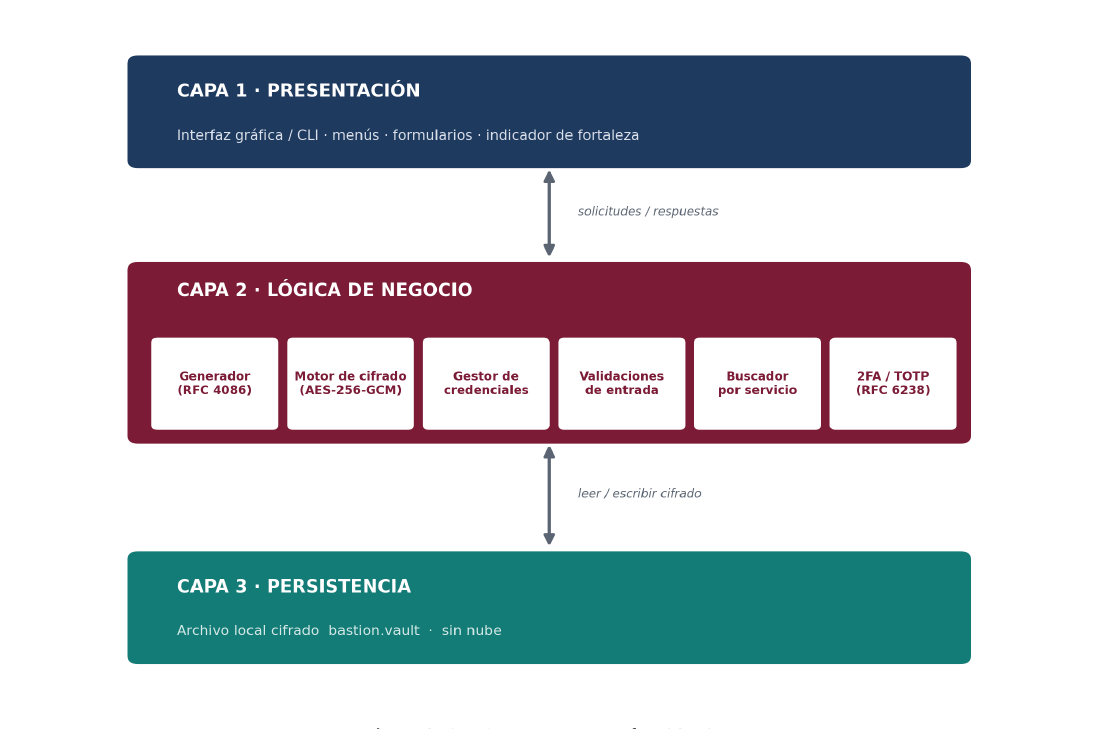
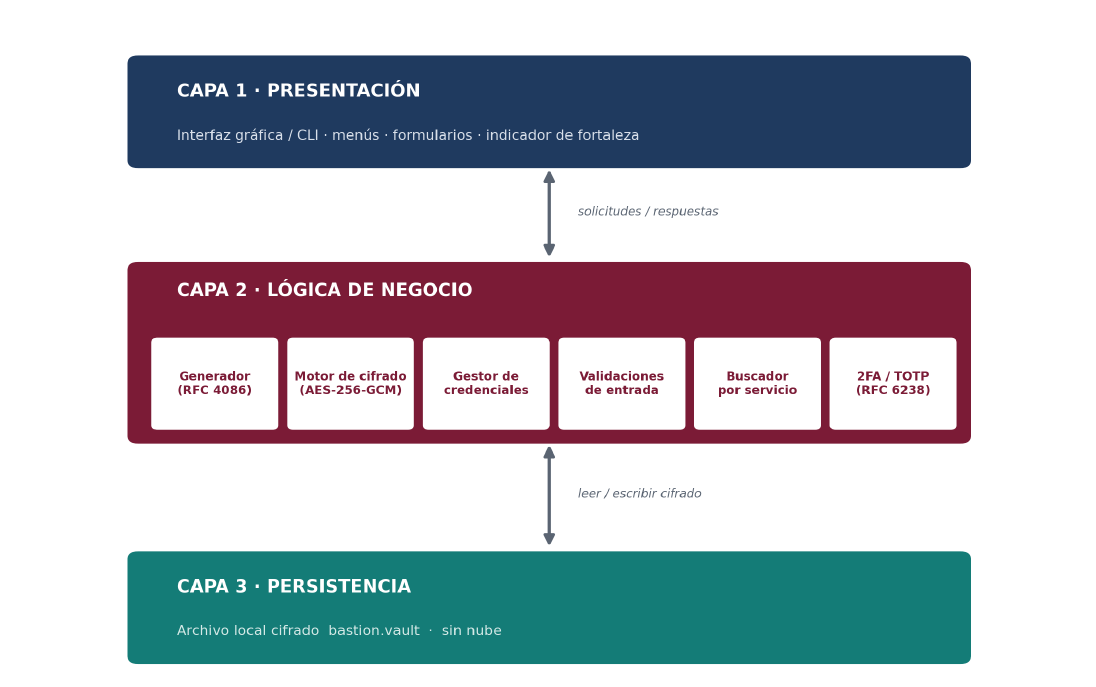
[BASTION] - Agrega presentacion final (PowerPoint + PDF) y pule diagrama de arquitectura

diff --git a/presentacion/README.md b/presentacion/README.md
@@ -1,10 +1,13 @@
 # Presentacion final
 
-Carpeta destinada a la presentacion final del proyecto integrador.
+Presentacion del proyecto integrador BASTION (10 diapositivas): problema,
+solucion, arquitectura, funcionalidades, integracion de las cuatro unidades,
+codigo, reflexion sobre el impacto de la tecnologia, conclusiones y limitaciones.
 
-Pendiente de cargar:
+| Archivo | Contenido |
+|---------|-----------|
+| `Presentacion_BASTION.pptx` | Presentacion editable en PowerPoint |
+| `Presentacion_BASTION_vista.pdf` | Version en PDF para ver sin PowerPoint |
 
-| Insumo | Estado |
-|--------|--------|
-| Presentacion (Canva, PowerPoint o Prezi) | Pendiente |
-| Video demostrativo del funcionamiento del software | Disponible como enlace en la tabla de videos del README principal |
+El video demostrativo del funcionamiento del software esta enlazado en la tabla
+de videos del README principal del repositorio.

diff --git a/README.md b/README.md
@@ -48,6 +48,7 @@ contrasena maestra cuyo hash se almacena con SHA-256, sin depender de la nube.
 |-------------------|-----------|
 | [`bastion.py`](bastion.py) | Codigo fuente completo del sistema (Python) |
 | [`documento/`](documento/) | Documento del proyecto en PDF |
+| [`presentacion/`](presentacion/) | Presentacion final (PowerPoint y PDF) |
 | [`diagramas/`](diagramas/) | Diagramas de funcionalidad (casos de uso, flujo) y de arquitectura |
 | [`prototipo/`](prototipo/) | Prototipo de interfaz de alta fidelidad (HTML, CSS y JS) |
 | [`autonomos/`](autonomos/) | Aprendizajes autonomos del periodo, en carpetas |